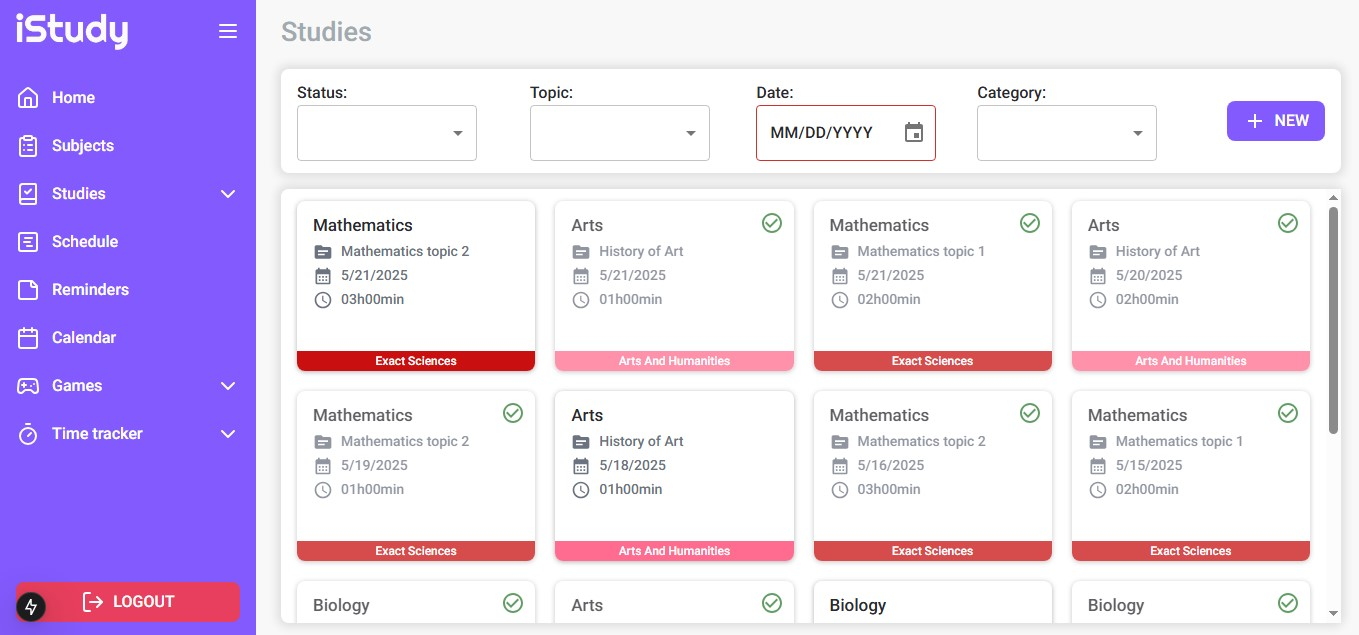
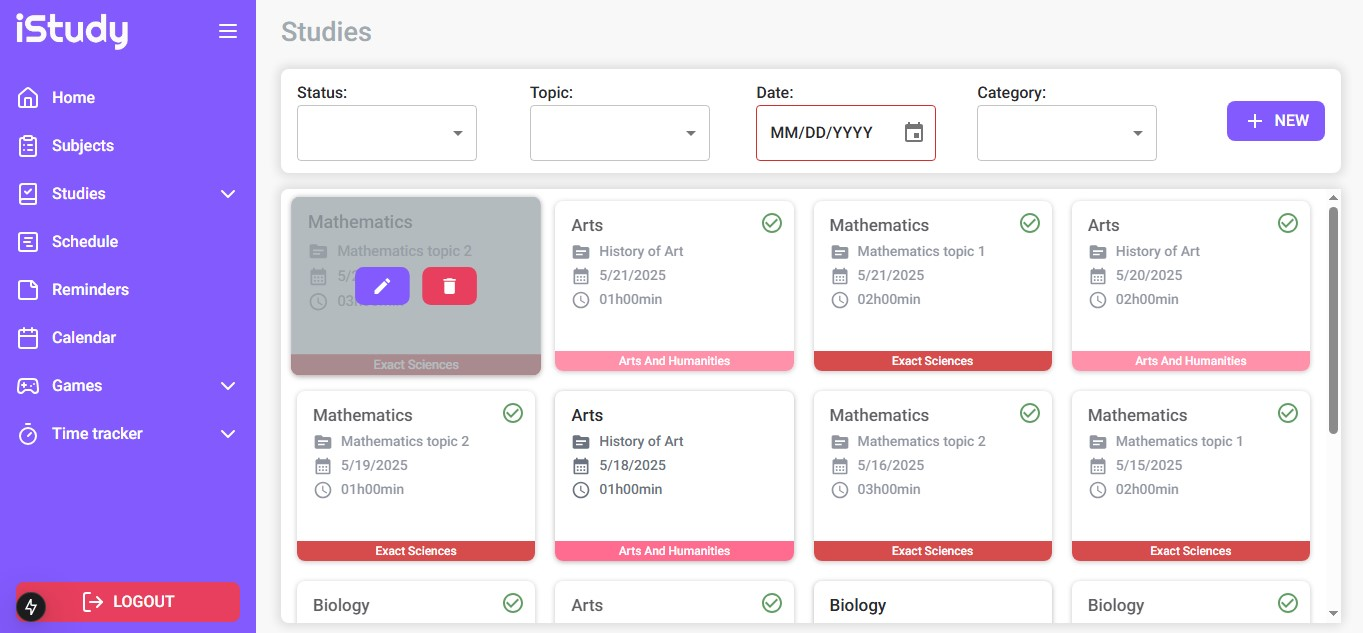
docs: update README.md

diff --git a/README.md b/README.md
@@ -1,6 +1,6 @@
 ![iStudy-logo-banner.jpg](docs%2Fimages%2FiStudy-logo-banner.jpg)
 <p align="center">
-  <img src="https://img.shields.io/badge/Status-In%20Progress-yellow?style=for-the-badge&logo=headspace&logoColor=orange&color=yellow" alt="istudy-repo-status" />
+  <img src="https://img.shields.io/badge/Status-Completed-blue?style=for-the-badge&logo=headspace&logoColor=blue&color=blue" alt="istudy-repo-status" />
   <img src="https://img.shields.io/github/license/Luk4x/apple-store?style=for-the-badge&logo=unlicense&logoColor=lightgrey" alt="istudy-repo-license" />
 </p>
 
@@ -36,14 +36,15 @@ iStudy is a web platform designed to help students efficiently organize, manage,
 - `istudy-app`: This folder contains the front-end code of the application, built with TypeScript, React.Js and NextJS.
 - `istudy-services`: This folder contains the system's back-end (Java/Spring Boot), which follows a microservices architecture using Spring Cloud API Gateway as a request interceptor and Spring Cloud Netflix (Eureka) for service registration and discovery.
 
-![istudy_architecture.png](docs%2Fimages%2Fistudy_architecture.png)
-(Preliminary draft of the system architecture. Some inaccuracies may be present as I am still in the learning and understanding phase.)
+## System Architecture
+![alt text](docs/images/istudy_architecture.png)
+
+## Database EER Diagram
+![alt text](docs/images/istudy-database-diagram.png)
 
 </br>
 
 # Technologies Used
-
-At the moment, these are the technologies used:
 
 ## Back-End
 * **Java**: A high-level, object-oriented programming language widely used for building server-side applications, web services, and Android applications.
@@ -102,9 +103,9 @@ At the moment, these are the technologies used:
 * **React calendar**: A lightweight and easily configurable calendar component.
 
 ## Databases and other technologies
-* **Docker**: A platform that allows developers to automate the deployment of applications inside lightweight containers, ensuring consistency across different environments and simplifying the setup process.
-
 * **MySQL**: A relational database management system used for reliable data storage and management.
+
+* **Docker**: A platform that allows developers to automate the deployment of applications inside lightweight containers, ensuring consistency across different environments and simplifying the setup process.
 
 </br>
 
@@ -151,7 +152,7 @@ docker-compose up --build
 ## 1. AUTH-MS
 - Authentication and user management microservice.
 ### **POST** `/auth/register`
-- Creates a new user.
+- Create a new user.
 
 #### Request Body
 
@@ -173,7 +174,7 @@ docker-compose up --build
 ---
 
 ### **POST** `/auth/login`
-- Authenticates the user.
+- Authenticate an user.
 
 #### Request Body
 
@@ -389,7 +390,7 @@ docker-compose up --build
 - Additionally, it provides analytical insights into study habits based on different time periods.
 
 ### **POST** `/studies`
-- Creates a new study.
+- Create a new study.
 
 #### Request Body
 - `StudyRequestDto`:
@@ -424,7 +425,7 @@ docker-compose up --build
 ---
 
 ### **PUT** `/studies/{id}`
-- Updates a study by ID.
+- Update a study by ID.
 
 #### Request Body
 - `StudyRequestDto`
@@ -435,14 +436,14 @@ docker-compose up --build
 ---
 
 ### **DELETE** `/studies/{id}`
-- Deletes a study by ID.
+- Delete a study by ID.
 
 #### Success Response Body
 - `List<Study>` updated
 ---
 
 ### **GET** `/studies/all`
-- Returns all studies.
+- Returns all of the user's studies.
 
 #### Success Response Body
 - `List<Study>`.
@@ -458,7 +459,7 @@ docker-compose up --build
 ---
 
 ### **GET** `/studies/completed`
-- Returns all the user's studies with the isCompleted field set to true.
+- Returns all the user's studies with the `isCompleted` field set to true.
 
 #### Success Response Body
 - `List<Study>`
@@ -1112,34 +1113,37 @@ docker-compose up --build
 
 ### Subject page
 ![alt text](docs/images/subject-page.jpg)
-#### Subject page: Create subject modal
+#### Subject page: Create/update subject modal
 ![alt text](docs/images/create-subject-page.jpg) 
+#### Subject page: Delete subject modal
+![alt text](docs/images/delete-subject-modal.jpg) 
 
 ### Subject Management page
 ![alt text](docs/images/subject-management-page.jpg)
-
-#### Subject Management page: Create topic modal
+#### Subject Management page: Create/Update topic modal
 ![alt text](docs/images/create-topic-page.jpg) 
-
 #### Subject Management page: Delete topic modal
 ![alt text](docs/images/delete-topic-page.jpg) 
 
 ### Studies page
 ![alt text](docs/images/studies-page.jpg) 
-
-#### Studies page: Create study modal
+#### Studies page: Create/update study modal
 ![alt text](docs/images/create-study-page.jpg) 
+#### Studies page: Delete study modal
+![alt text](docs/images/delete-study-modal.jpg) 
 
 ### Studies Statistical Information page
-[PHOTO]
+![alt text](docs/images/studies-statistical-information-page.png) 
 
 ### Reminders page
 ![alt text](docs/images/reminders-page.jpg) 
 
 ### Schedules page
 ![alt text](docs/images/schedule-page.jpg) 
-#### Schedules page: Create schedule modal
+#### Schedules page: Create/update schedule item  modal
 ![alt text](docs/images/create-schedule-page.jpg) 
+#### Schedules page: Delete schedule item modal
+![alt text](docs/images/delete-schedule-item-modal.jpg) 
 
 ### Calendar page
 ![alt text](docs/images/calendar-page.jpg) 
@@ -1147,16 +1151,20 @@ docker-compose up --build
 ### Games
 #### Games: Flashcards page
 ![alt text](docs/images/flashcard-page.jpg) 
-#### Games: Flashcards create modal
+#### Games: Create/update Flashcards modal
 ![alt text](docs/images/create-flashcard-page.jpg) 
+#### Games: Delete Flashcards modal
+![alt text](docs/images/delete-flashcard-modal.jpg) 
 #### Games: Flashcard game page
 ![alt text](docs/images/flashcard-game-page.jpg) 
 #### Games: Flashcard result game page
 ![alt text](docs/images/flashcard-game-result-page.jpg) 
 #### Games: Quiz page
 ![alt text](docs/images/quiz-page.jpg) 
-#### Games: Quiz create modal
+#### Games: Create/update Quiz modal
 ![alt text](docs/images/create-quiz-modal.jpg) 
+#### Games: Delete Quiz modal
+![alt text](docs/images/delete-quiz-modal.jpg) 
 #### Games: Quiz game page
 ![alt text](docs/images/quiz-game-modal.png) 
 #### Games: Quiz result page
@@ -1167,7 +1175,7 @@ docker-compose up --build
 ![alt text](docs/images/timer-page.jpg) 
 #### Time tracker: Pomodoro page
 ![alt text](docs/images/pomodoro-page.jpg) 
-#### Time tracker: Pomodoro settings modal
+##### Time tracker: Pomodoro settings modal
 ![alt text](docs/images/pomodoro-settings-modal.jpg) 
 
 # Contact
